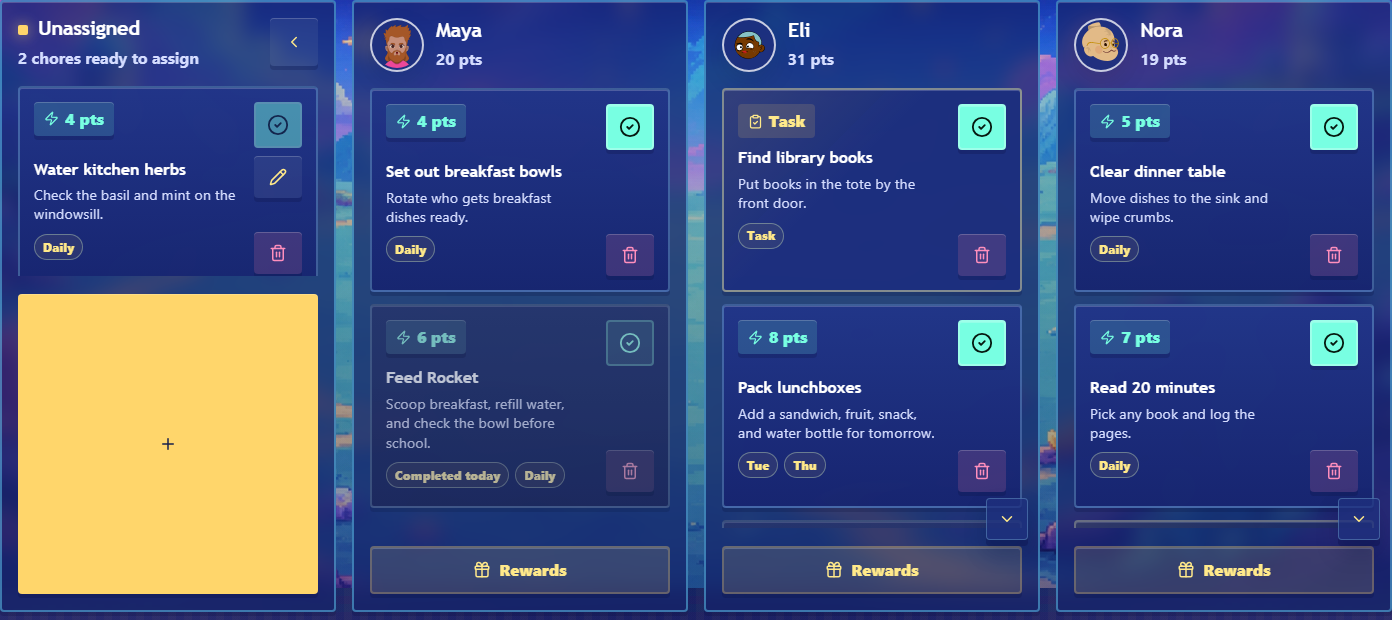
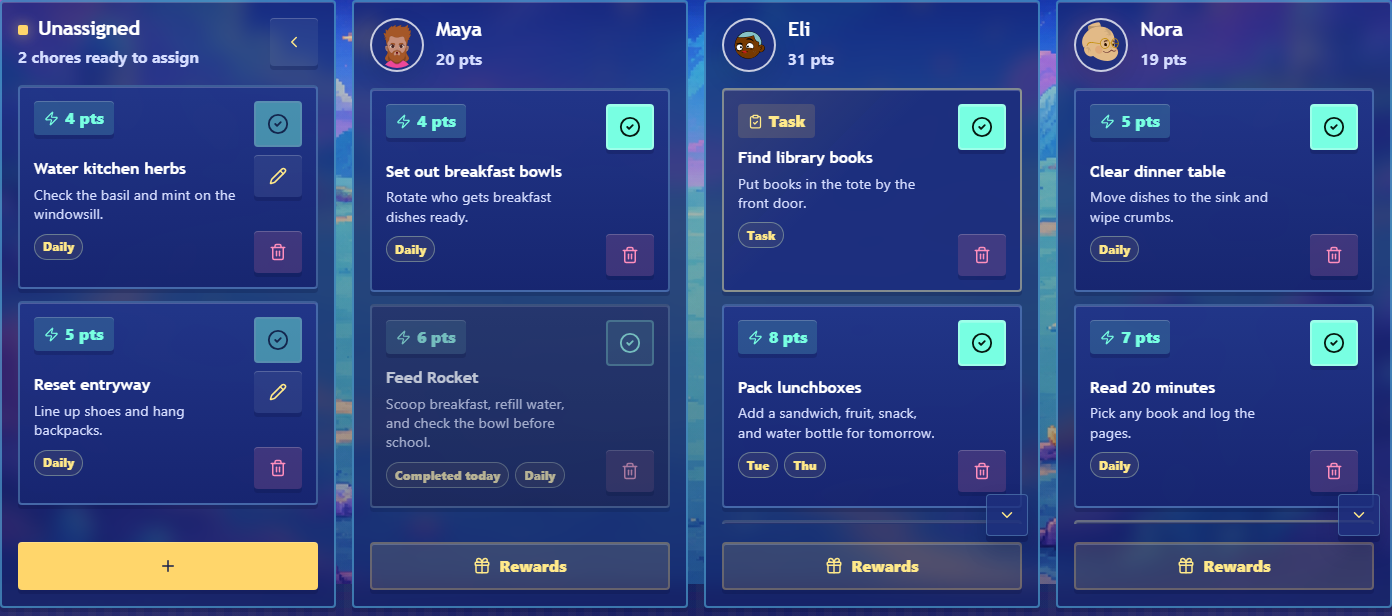
Fix add chore footer button height

diff --git a/client/src/styles/components/lanes.css b/client/src/styles/components/lanes.css
@@ -140,6 +140,10 @@
   min-height: 48px;
 }
 
+.lane-footer .lane-add-button-icon {
+  aspect-ratio: auto;
+}
+
 .empty-copy {
   margin: 0;
   color: var(--color-text-muted);